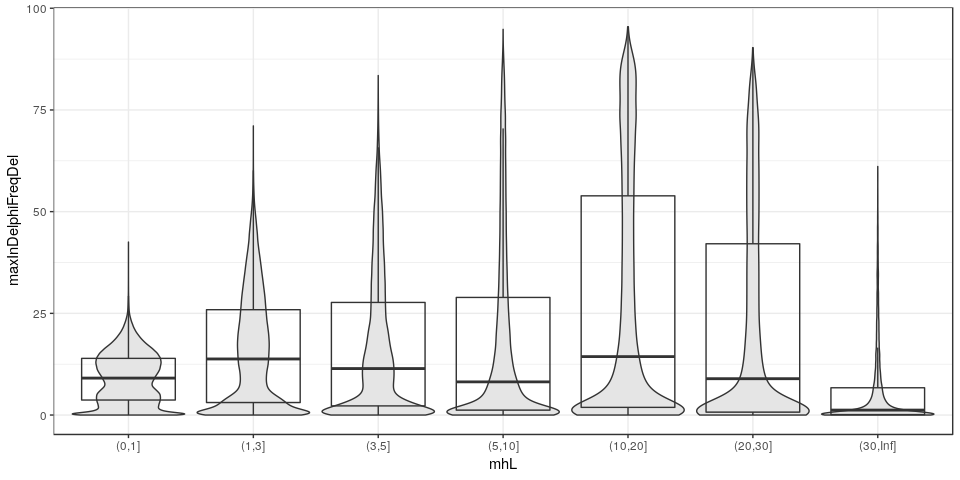
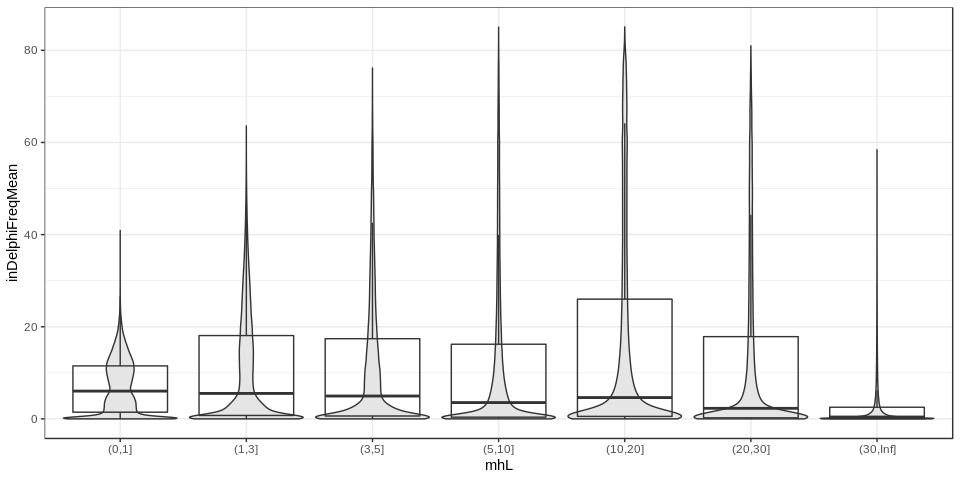
update indelphi report

Changed region(s): [[0.0, 0.0, 1.0, 1.0], [0.9062, 0.5938, 0.9375, 0.625]]

diff --git a/reports/MHcut-dbSNPClinVar-inDelphiExploration.md b/reports/MHcut-dbSNPClinVar-inDelphiExploration.md
@@ -13,6 +13,7 @@ First load the packages:
 library(data.table) # good for big data
 library(dplyr) # To manipulate/transform data.frames
 library(magrittr) # pipes (e.g. %>%)
+library(tidyr)
 
 ## For graphs and tables
 library(ggplot2)
@@ -26,11 +27,17 @@ winsor <- function(x, u=10){
 }
 ```
 
-Then we'll read the input TSV file (with 43M variants) using the `fread` function. This will create a *data.table* object which uses disk space rather than memory (if I understand correctly) so it's good for big data. To reduce the amount of data loaded in R, let's only load some specific columns (using `select=`).
+Then we’ll read the input TSV file for the guides using the `fread`
+function. Of note multiple guides might be present for each variant in
+the *guides* file but that is fine because we want to look at the
+inDelphi prediction for each cut. This will create a *data.table* object
+which uses disk space rather than memory (if I understand correctly) so
+it’s good for big data. To reduce the amount of data loaded in R, let’s
+only load some specific columns (using `select=`).
 
 ``` r
 ## Read the first row (headers) to remind us the order of each column
-read.table('../scripts-dbSNP-ClinVar/mhcut-dbsnp-clinvar-deletion-indelphi-variants.tsv.gz', nrows=1)
+read.table('../scripts-dbSNP-ClinVar/mhcut-dbsnp-clinvar-deletion-indelphi5-guides.tsv.gz', nrows=1)
 ```
 
     ##    V1    V2  V3 V4  V5     V6       V7 V8 V9     V10    V11      V12   V13
@@ -39,171 +46,119 @@ read.table('../scripts-dbSNP-ClinVar/mhcut-dbsnp-clinvar-deletion-indelphi-varia
     ## 1 CLNSIG DBVARID GENEINFO.ClinVar MC.ClinVar citation geneloc varL mhL
     ##    V22 V23  V24       V25    V26     V27    V28    V29 V30    V31     V32
     ## 1 mh1L hom nbMM mhMaxCons mhDist mh1Dist MHseq1 MHseq2  GC pamMot pamUniq
-    ##           V33          V34          V35                V36
-    ## 1 guidesNoNMH guidesMinNMH max2cutsDist maxInDelphiFreqDel
-    ##                   V37
-    ## 1 maxInDelphiFreqSize
+    ##           V33          V34          V35                 V36
+    ## 1 guidesNoNMH guidesMinNMH max2cutsDist maxInDelphiFreqmESC
+    ##                   V37                   V38                   V39
+    ## 1 maxInDelphiFreqU2OS maxInDelphiFreqHEK293 maxInDelphiFreqHCT116
+    ##                   V40         V41    V42 V43 V44 V45     V46     V47
+    ## 1 maxInDelphiFreqK562 protospacer pamSeq mm0 mm1 mm2 m1Dist1 m1Dist2
+    ##       V48     V49   V50        V51      V52     V53     V54   V55    V56
+    ## 1 mhDist1 mhDist2 nbNMH largestNMH nmhScore nmhSize nmhVarL nmhGC nmhSeq
+    ##                V57              V58                V59                V60
+    ## 1 inDelphiFreqmESC inDelphiFreqU2OS inDelphiFreqHEK293 inDelphiFreqHCT116
+    ##                V61
+    ## 1 inDelphiFreqK562
 
 ``` r
-## Import variants and colums varL, mhL, guidesMinNMH, maxInDelphiFreqDel, maxInDelphiFreqSize
-var = fread('gunzip -c ../scripts-dbSNP-ClinVar/mhcut-dbsnp-clinvar-deletion-indelphi-variants.tsv.gz',
-            select=c(20, 21, 34, 36, 37))
+## Import variants and colums varL, mhL, mh1Dist, nbNMH, and the 5 inDelphi columns
+gds = fread('gunzip -c ../scripts-dbSNP-ClinVar/mhcut-dbsnp-clinvar-deletion-indelphi5-guides.tsv.gz',
+            select=c(20, 21, 27, 50, 57:61))
+gds.df = as.data.frame(gds)
 ```
 
-This takes about 1 min. Now the `var` object is a *data.table* with 43M values.
-
-Let's keep only variants whose inDelphi columns are not *NA*.
+Average predicted frequency across cell types
+---------------------------------------------
 
 ``` r
-var = var[!is.na(maxInDelphiFreqDel)]
-head(var)
+gds.df$inDelphiFreqMean = rowMeans(as.matrix(gds.df[, 5:9]))
+gds.df %>% head %>% kable
 ```
 
-    ##    varL mhL guidesMinNMH maxInDelphiFreqDel maxInDelphiFreqSize
-    ## 1:    1   1            0             16.716              29.055
-    ## 2:   31   5            3              0.068               0.117
-    ## 3:   22   5            5              0.919               1.787
-    ## 4:    3   3            0             27.048              27.048
-    ## 5:    2   1            0              4.407               4.407
-    ## 6:    2   2            0             33.278              33.278
-
-``` r
-nrow(var)
-```
-
-    ## [1] 3045456
-
-This is now "just" 3045456 values so we can convert to *data.frame* and use dplyr/ggplot to make the graph.
-
-Prediction per deletion or per size
------------------------------------
-
-``` r
-var.df = as.data.frame(var)
-
-ggplot(var.df, aes(x=maxInDelphiFreqSize-maxInDelphiFreqDel)) +
-  geom_histogram() + theme_bw()
-```
-
-![](MHcut-dbSNPClinVar-inDelphiExploration_files/figure-markdown_github/freq.del.size-1.png)
-
-``` r
-ggplot(var.df, aes(x=maxInDelphiFreqDel, y=maxInDelphiFreqSize, fill=log10(..count..))) +
-  geom_bin2d(colour='black') + scale_fill_gradient(low='grey90', high='black') + 
-  theme_bw() + geom_abline(linetype=2)
-```
-
-![](MHcut-dbSNPClinVar-inDelphiExploration_files/figure-markdown_github/freq.del.size-2.png)
-
-Is the difference between the per-deletion and per-size metric correlated with variant size or other features?
-
-``` r
-var.df %>% mutate(indelphi.diff=cut(maxInDelphiFreqSize-maxInDelphiFreqDel,
-                                    breaks=c(0,5,10,30,50,100), include.lowest=TRUE)) %>% 
-  ggplot(aes(x=indelphi.diff, y=winsor(varL, 50), fill=maxInDelphiFreqDel==0)) +
-  geom_violin(scale='width') + geom_boxplot(alpha=0) + 
-  theme_bw()
-```
-
-![](MHcut-dbSNPClinVar-inDelphiExploration_files/figure-markdown_github/freq.del.size.diff-1.png)
-
-``` r
-var.df %>% mutate(indelphi.diff=cut(maxInDelphiFreqSize-maxInDelphiFreqDel,
-                                    breaks=c(0,5,10,30,50,100), include.lowest=TRUE)) %>% 
-  ggplot(aes(x=indelphi.diff, y=winsor(mhL, 50), fill=maxInDelphiFreqDel==0)) +
-  geom_violin(scale='width') + geom_boxplot(alpha=0) + 
-  theme_bw()
-```
-
-![](MHcut-dbSNPClinVar-inDelphiExploration_files/figure-markdown_github/freq.del.size.diff-2.png)
-
-``` r
-var.df %>% mutate(indelphi.diff=cut(maxInDelphiFreqSize-maxInDelphiFreqDel,
-                                    breaks=c(0,5,10,30,50,100), include.lowest=TRUE)) %>% 
-  ggplot(aes(x=indelphi.diff, y=winsor(guidesMinNMH, 20), fill=maxInDelphiFreqDel==0)) +
-  geom_violin(scale='width') + geom_boxplot(alpha=0) + 
-  theme_bw()
-```
-
-![](MHcut-dbSNPClinVar-inDelphiExploration_files/figure-markdown_github/freq.del.size.diff-3.png)
-
-It looks like the variant with much higher per-size frequency than per-variant frequency are:
-
-1.  of medium size, e.g. ~10bp.
-2.  with good MH.
-3.  with some nested MH.
-
-That kind of makes sense: there are nested MH that maybe create a frequent deletions of similar size but not exactly the one we want.
-
-However, when the per-deletion frequency is exactly 0, the patterns are a bit different and for those it might be a problem of matching inDelphi's output with our deletion.
+|  varL|  mhL|  mh1Dist|  nbNMH|  inDelphiFreqmESC|  inDelphiFreqU2OS|  inDelphiFreqHEK293|  inDelphiFreqHCT116|  inDelphiFreqK562|  inDelphiFreqMean|
+|-----:|----:|--------:|------:|-----------------:|-----------------:|-------------------:|-------------------:|-----------------:|-----------------:|
+|    21|    5|       16|      4|             6.057|             3.046|               5.892|               5.511|             6.531|            5.4074|
+|    21|    5|       16|      3|             7.865|             6.837|               7.944|               7.703|             8.015|            7.6728|
+|    21|    5|       16|      3|             7.883|             6.853|               7.962|               7.721|             8.033|            7.6904|
+|    21|    5|       16|      6|             1.101|             0.842|               1.043|               0.945|             1.046|            0.9954|
+|     5|    1|        4|      0|             1.549|             0.785|               1.520|               1.422|             1.684|            1.3920|
+|     5|    1|        4|      0|             2.246|             1.955|               2.266|               2.192|             2.289|            2.1896|
 
 Predicted frequency and variant size
 ------------------------------------
 
 ``` r
-var.df %>% mutate(varL=cut(varL, breaks=c(0,1,3,5,10,20,30,Inf))) %>%
-  ggplot(aes(x=varL, y=maxInDelphiFreqDel)) +
+gds.df %>% mutate(varL=cut(varL, breaks=c(0,1,3,5,10,20,30,Inf))) %>%
+  ggplot(aes(x=varL, y=inDelphiFreqMean)) +
   geom_violin(scale='width', fill='grey90') + geom_boxplot(alpha=0) + 
   theme_bw()
 ```
 
 ![](MHcut-dbSNPClinVar-inDelphiExploration_files/figure-markdown_github/freq.vsize-1.png)
 
-``` r
-var.df %>% mutate(varL=cut(varL, breaks=c(0,1,3,5,10,20,30,Inf))) %>%
-  ggplot(aes(x=varL, y=maxInDelphiFreqSize)) +
-  geom_violin(scale='width', fill='grey90') + geom_boxplot(alpha=0) + 
-  theme_bw()
-```
-
-![](MHcut-dbSNPClinVar-inDelphiExploration_files/figure-markdown_github/freq.vsize-2.png)
-
-The average predicted frequencies tend to decrease when the variant gets too big (&gt;10-20bp).
+The average predicted frequencies tend to decrease when the variant gets
+too big (&gt;10-20bp). However, the variance increases with some large
+variants reaching high predicted frequencies.
 
 Predicted frequency and MH length
 ---------------------------------
 
 ``` r
-var.df %>% mutate(mhL=cut(mhL, breaks=c(0,1,3,5,10,20,30,Inf))) %>%
-  ggplot(aes(x=mhL, y=maxInDelphiFreqDel)) +
+gds.df %>% mutate(mhL=cut(mhL, breaks=c(0,1,3,5,10,20,30,Inf))) %>%
+  ggplot(aes(x=mhL, y=inDelphiFreqMean)) +
   geom_violin(scale='width', fill='grey90') + geom_boxplot(alpha=0) + 
   theme_bw()
 ```
 
 ![](MHcut-dbSNPClinVar-inDelphiExploration_files/figure-markdown_github/freq.mhl-1.png)
 
-``` r
-var.df %>% mutate(mhL=cut(mhL, breaks=c(0,1,3,5,10,20,30,Inf))) %>%
-  ggplot(aes(x=mhL, y=maxInDelphiFreqSize)) +
-  geom_violin(scale='width', fill='grey90') + geom_boxplot(alpha=0) + 
-  theme_bw()
-```
-
-![](MHcut-dbSNPClinVar-inDelphiExploration_files/figure-markdown_github/freq.mhl-2.png)
-
-However it's quite similar across different MH levels.
+It’s quite similar across different MH levels.
 
 Predicted frequency and nested MH
 ---------------------------------
 
 ``` r
-var.df %>% filter(!is.na(guidesMinNMH)) %>%
-  mutate(guidesMinNMH=cut(guidesMinNMH, breaks=c(-Inf, 0,1,3,5,10,20,30,Inf))) %>%
-  ggplot(aes(x=guidesMinNMH, y=maxInDelphiFreqDel)) +
+gds.df %>% 
+  mutate(nbNMH=cut(nbNMH, breaks=c(-Inf, 0,1,3,5,10,20,30,Inf))) %>%
+  ggplot(aes(x=nbNMH, y=inDelphiFreqMean)) +
   geom_violin(scale='width', fill='grey90') + geom_boxplot(alpha=0) + 
   theme_bw()
 ```
 
 ![](MHcut-dbSNPClinVar-inDelphiExploration_files/figure-markdown_github/freq.nmh-1.png)
 
+The highest predicted frequency is nicely anti-correlated with the
+number of nested MH for the guide which have the least amount of nested
+MH. That’s good because that was one estimate used to get an idea of
+efficiency.
+
+Predicted frequency and distance between MH
+-------------------------------------------
+
 ``` r
-var.df %>% filter(!is.na(guidesMinNMH)) %>%
-  mutate(guidesMinNMH=cut(guidesMinNMH, breaks=c(-Inf, 0,1,3,5,10,20,30,Inf))) %>%
-  ggplot(aes(x=guidesMinNMH, y=maxInDelphiFreqSize)) +
+gds.df %>% 
+  mutate(mh1Dist=factor(winsor(mh1Dist, 20))) %>%
+  ggplot(aes(x=mh1Dist, y=inDelphiFreqMean)) +
   geom_violin(scale='width', fill='grey90') + geom_boxplot(alpha=0) + 
-  theme_bw()
+  theme_bw() + 
+  xlab("MH distance (bp)") + ylab("median inDelphi prevalence (%)")+
+  scale_x_discrete(breaks=c(0:20), labels=c(0:19,"20+")) +
+  scale_y_continuous(name="inDelphi prevalence (%)")
 ```
 
-![](MHcut-dbSNPClinVar-inDelphiExploration_files/figure-markdown_github/freq.nmh-2.png)
+![](MHcut-dbSNPClinVar-inDelphiExploration_files/figure-markdown_github/mhdist-1.png)
 
-The highest predicted frequency is nicely anti-correlated with the number of nested MH for the guide which have the least amount of nested MH. That's good because that was one estimate used to get an idea of efficiency.
+``` r
+mhdist.med = gds.df %>% mutate(mh1Dist=winsor(mh1Dist, 20)) %>%
+  group_by(mh1Dist) %>% summarize_all(median, na.rm=TRUE)
+
+mhdist.med %>% gather(celltype, freq, -mh1Dist, -varL, -mhL, -nbNMH, -inDelphiFreqMean) %>%
+  mutate(celltype=gsub('inDelphiFreq','',celltype)) %>% 
+  ggplot(aes(x=mh1Dist, y=freq, colour=celltype)) +
+  geom_line() + scale_colour_brewer(palette='Set1') + 
+  theme_bw() + 
+  xlab("MH distance (bp)") + ylab("median inDelphi prevalence (%)")+
+  scale_x_continuous(breaks=c(0:20), labels=c(0:19,"20+")) +
+  scale_y_continuous(name="inDelphi prevalence (%)")
+```
+
+![](MHcut-dbSNPClinVar-inDelphiExploration_files/figure-markdown_github/mhdist-2.png)
